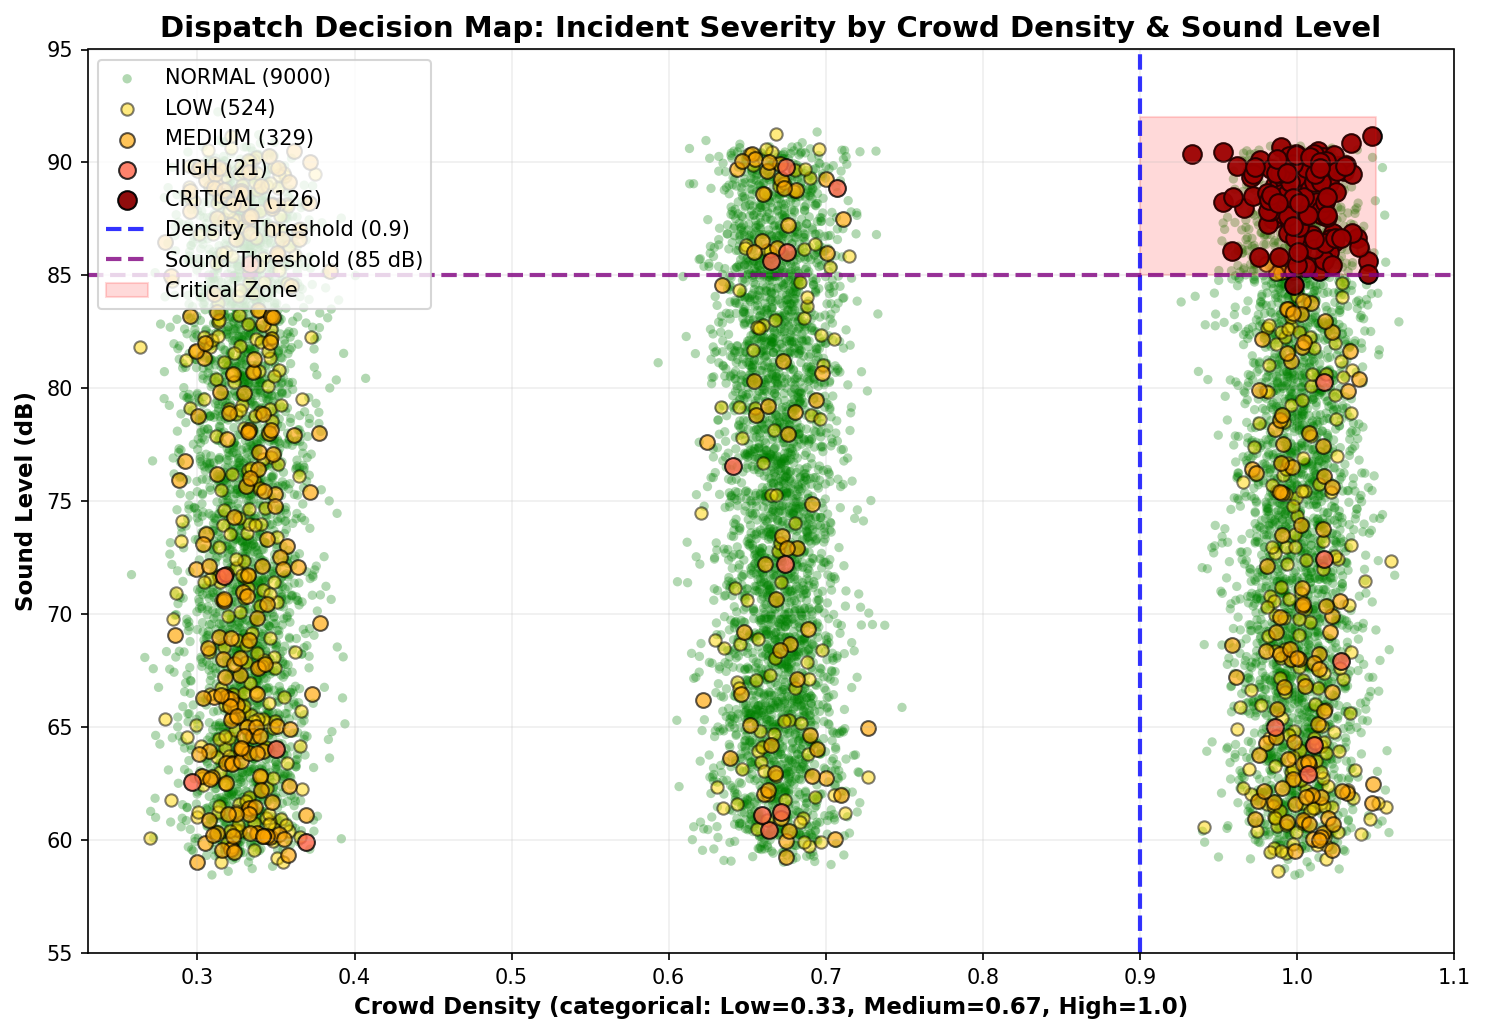
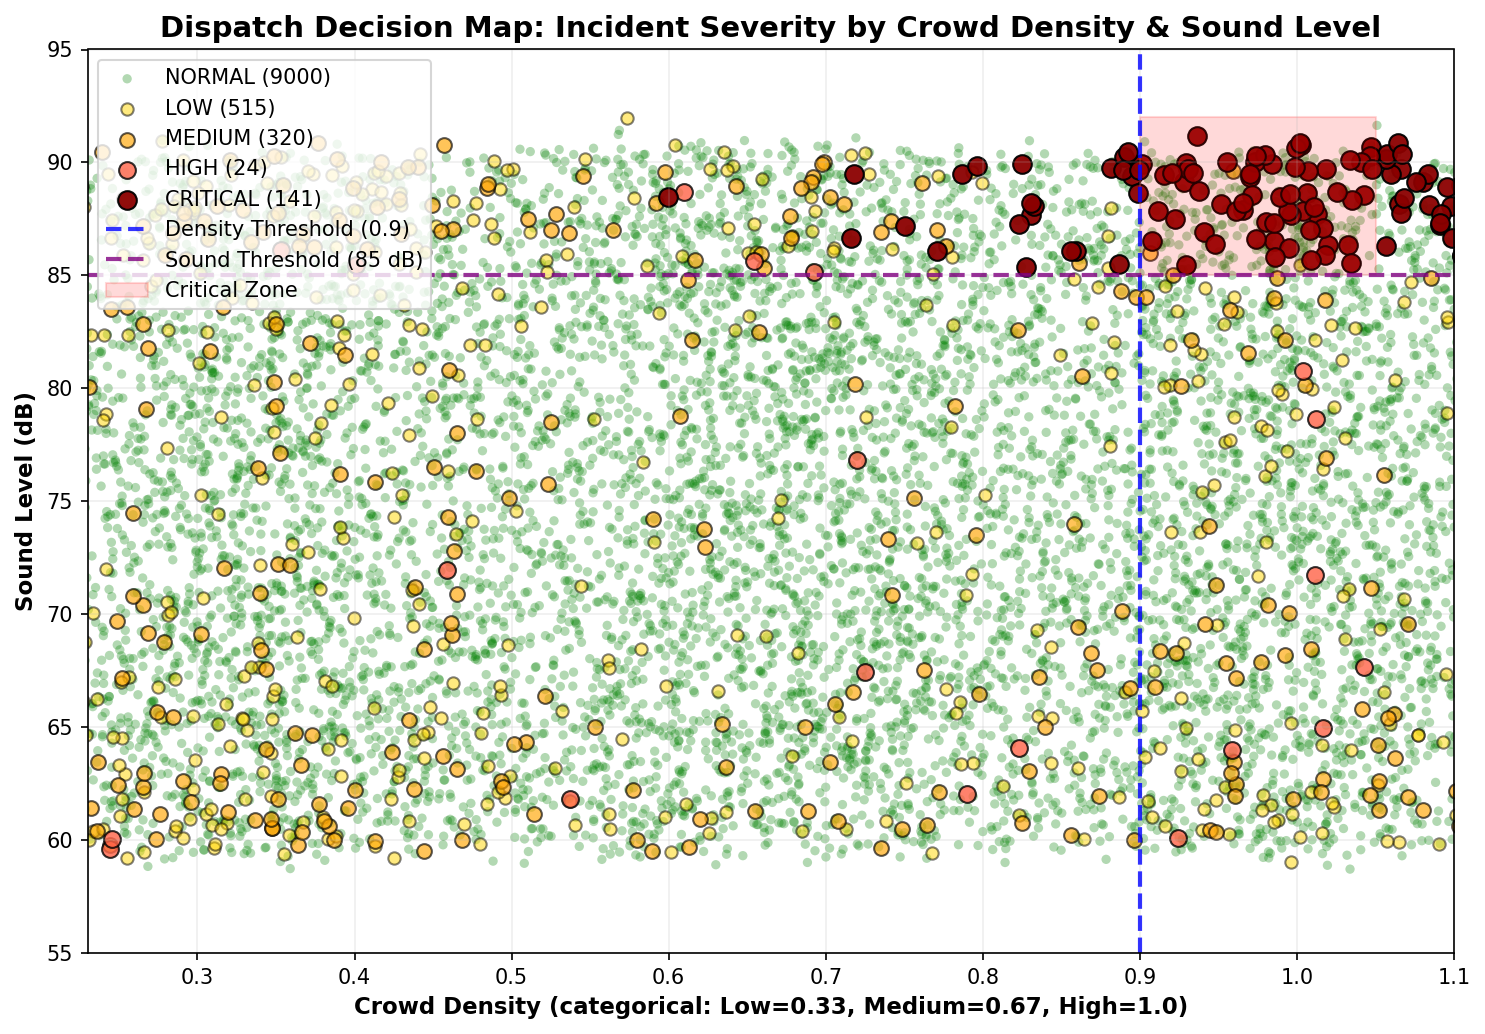
adjustments

diff --git a/slop.py b/slop.py
@@ -37,15 +37,11 @@ df["Is_Abnormal"] = 0
 category_mapping = {"Low": 0.33, "Medium": 0.67, "High": 1.0}
 if "Crowd_Density" in df.columns:
     df["Crowd_Density"] = df["Crowd_Density"].map(category_mapping)
-if "Stress_Level" in df.columns:
-    df["Stress_Level"] = df["Stress_Level"].map(category_mapping)
-if "Fatigue_Level" in df.columns:
-    df["Fatigue_Level"] = df["Fatigue_Level"].map(category_mapping)
 
 # Convert required columns to numeric safely
 cols = [
     "Movement_Speed", "Sound_Level_dB", "Crowd_Density",
-    "Distance_Between_People_m", "Queue_Time_minutes", "Stress_Level"
+    "Distance_Between_People_m", "Queue_Time_minutes"
 ]
 
 for col in cols:
@@ -75,9 +71,8 @@ print(f"Ground truth anomalies: {actual_anomaly_rate*100:.2f}%")
 features = [
     "Movement_Speed", "Sound_Level_dB", "Crowd_Density",
     "Distance_Between_People_m", "Queue_Time_minutes",
-    "Temperature", "Stress_Level", "Fatigue_Level",
+    "Temperature",
     "Waiting_Time_for_Transport",
-    "Security_Checkpoint_Wait_Time",
     "Interaction_Frequency",
     "Time_Spent_at_Location_minutes"
 ]
@@ -184,7 +179,7 @@ fig, ax = plt.subplots(figsize=(10, 7))
 
 # Add small jitter to make overlapping points visible (Crowd_Density only has 3 values)
 np.random.seed(42)
-jitter_x = 0.02
+jitter_x = 0.12
 jitter_y = 0.5
 
 # Define color map and marker properties for incident levels
